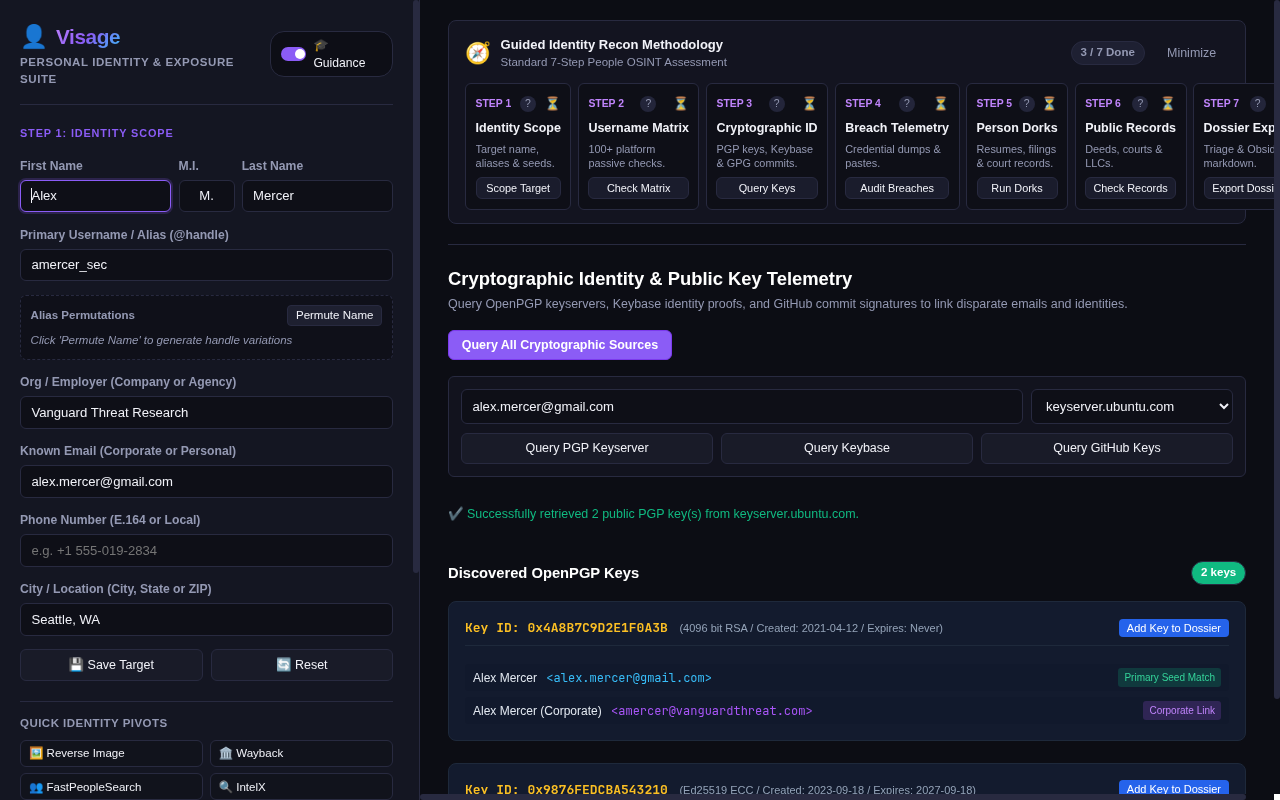
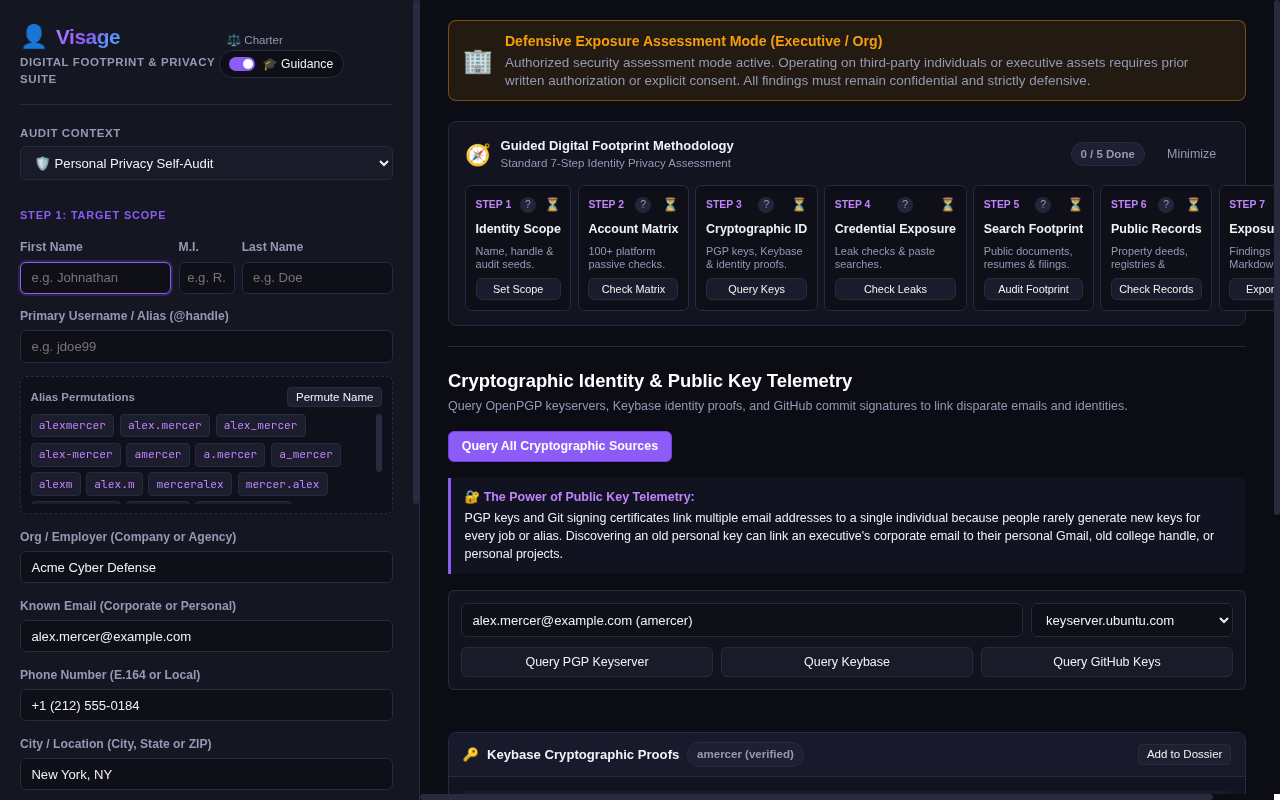
docs: update README with v1.1.0 screenshots, dual-mode audit methodology, and ethical safeguards

diff --git a/dashboard.js b/dashboard.js
@@ -16,6 +16,49 @@
 if (typeof browser === 'undefined') {
   var browser = globalThis.browser || globalThis.chrome;
 }
+if (!browser || !browser.storage || !browser.storage.local) {
+  const memStore = {};
+  browser = Object.assign(browser || {}, {
+    storage: {
+      local: {
+        get: async (keys) => {
+          const res = {};
+          const keyList = Array.isArray(keys) ? keys : (typeof keys === 'string' ? [keys] : Object.keys(keys || {}));
+          for (const k of keyList) {
+            try {
+              const val = localStorage.getItem('visage_' + k);
+              if (val !== null) res[k] = JSON.parse(val);
+              else if (k in memStore) res[k] = memStore[k];
+            } catch (e) {
+              if (k in memStore) res[k] = memStore[k];
+            }
+          }
+          return res;
+        },
+        set: async (items) => {
+          for (const [k, v] of Object.entries(items || {})) {
+            memStore[k] = v;
+            try { localStorage.setItem('visage_' + k, JSON.stringify(v)); } catch (e) {}
+          }
+        },
+        clear: async () => {
+          for (const k of Object.keys(memStore)) delete memStore[k];
+          try {
+            const toRemove = [];
+            for (let i = 0; i < localStorage.length; i++) {
+              const key = localStorage.key(i);
+              if (key && key.startsWith('visage_')) toRemove.push(key);
+            }
+            toRemove.forEach(k => localStorage.removeItem(k));
+          } catch (e) {}
+        }
+      }
+    },
+    tabs: browser && browser.tabs ? browser.tabs : {
+      create: ({ url }) => { window.open(url, '_blank'); }
+    }
+  });
+}
 
 // Helper: Split full name into first, middle, and last components
 function splitFullName(fullName) {

diff --git a/README.md b/README.md
@@ -14,48 +14,77 @@
 
 ## 📸 Workstation Screenshots
 
-### 1. 7-Step Digital Footprint Audit & 100+ Platform Username Matrix
+### 1. Personal Privacy Self-Audit & 100+ Platform Username Matrix
 ![Visage Username & Alias Matrix](screenshots/visage_matrix.png)
 
-### 2. Cryptographic Identity & Public Key Telemetry (OpenPGP & Keybase)
+### 2. Clean Up & Opt-Out Desk (Remediation Action Plan & Direct Delisting)
+![Visage Clean Up & Opt-Out Desk](screenshots/visage_opt_out_desk.png)
+
+### 3. Defensive Assessment Mode & 50-State Sovereign Records Desk
+![Visage Public Records Desk](screenshots/visage_records.png)
+
+### 4. Cryptographic Identity & Public Key Telemetry (OpenPGP & Keybase)
 ![Visage Cryptographic Identity](screenshots/visage_crypto.png)
 
-### 3. 50-State Public Records & Jurisdictional Directory Desk
-![Visage Public Records Desk](screenshots/visage_records.png)
+### 5. Ethical Operations Charter & Rules of Engagement
+![Visage Ethical Charter](screenshots/visage_ethical_charter.png)
 
 ---
 
-## 🧭 The 7-Step Identity Privacy Audit Methodology
+## 🧭 Dual-Mode Identity Audit Methodology
 
-Visage guides analysts through an end-to-end, reproducible identity audit workflow:
+Visage provides two tailored operating contexts depending on your mission and authorization:
+
+### 🛡 1. Personal Privacy Self-Audit Mode (Default)
+Streamlined 5-step workflow built specifically for individuals and privacy advocates auditing their own digital footprint, identifying exposed personal data, and executing direct takedowns:
 
 ```mermaid
 flowchart LR
-    S1["1. Scope Profile"] --> S2["2. Username Matrix"]
-    S2 --> S3["3. Cryptographic ID"]
-    S3 --> S4["4. Credential Leaks"]
-    S4 --> S5["5. Search Footprint"]
-    S5 --> S6["6. Public Records"]
-    S6 --> S7["7. Exposure Report"]
+    S1["1. Profile Scope"] --> S2["2. Account Matrix"]
+    S2 --> S3["3. Breach Check"]
+    S3 --> S4["4. Public Dorks"]
+    S4 --> S5["5. Clean Up Desk"]
 ```
 
-1. **Scope Identity Profile**: Dissect full legal name, known aliases, primary email, phone number, location, and employer. Visage automatically generates handle permutation variations (e.g. `first.last`, `flast`, `firstl`, `lastf`) and dynamically resolves jurisdiction down to county/parish and state.
-2. **Username & Alias Matrix**: Passively probe public presence across 100+ platforms (Developer, Social, Messaging, Media, and Gaming) with zero authentication required.
-3. **Cryptographic Signatures & Public Key Telemetry**: Query Ubuntu OpenPGP keyservers (`keyserver.ubuntu.com`, `pgp.surf.nl`), Keybase verified identity proofs, and GitHub commit signatures to link disparate personal and corporate emails.
-4. **Credential Exposure & Leak Telemetry**: Passive audit of public breach exposure, infostealer malware telemetry (Hudson Rock Cavalier), leaked paste shortlinks, and private in-browser **k-Anonymity** password hash range checking.
-5. **Public Footprint Query Compiler**: Curated search queries for resumes/CVs, court records, corporate filings, conference presentations, and exposed documents with multi-engine support (Google with strict verbatim `&tbs=li:1`, Bing, DuckDuckGo, Brave, Yandex).
-6. **Public Records & Jurisdictional Directory**: Multi-tier ground-truth sovereign records across all 50 US states, DC, and PR. Dynamic resolution of County/Parish property deeds, tax assessment GIS portals, board of elections voter rolls, official state voter status lookups, unified court case registers, state corporate/LLC filings, and professional licensing boards.
-7. **Exposure Report Triage & Export**: Classify findings by risk severity, triage status, and remediation notes. Export directly to Markdown reports (with Dataview metadata and callouts), CSV, or JSON. Restore previous audits with 1-click import of any Visage JSON or Markdown report.
+1. **Profile Scope**: Input your name, aliases, email, phone, and home jurisdiction. Generates handle permutations and maps jurisdiction down to county and state.
+2. **Account Matrix**: Check public profile presence across 100+ platforms (Developer, Social, Messaging, Media, and Gaming) with zero authentication.
+3. **Breach Check**: Passive credential compromise evaluation and in-browser **k-Anonymity** password hash check.
+4. **Public Dorks**: Search engine queries to identify exposed contact information, personal documents, and index leaks.
+5. **Clean Up & Opt-Out Desk**: Actionable remediation hub featuring official search engine PII removal forms (Google & Bing), direct opt-out portals for major data brokers (Whitepages, BeenVerified, Radaris, Spokeo, FastPeopleSearch, LexisNexis), and 1-click local audit data purge.
 
 ---
 
-## 🔒 Architecture, OPSEC & Rate-Limit Shields
+### ⚖ 2. Defensive Exposure Assessment Mode (Authorized Blue-Team)
+Comprehensive 7-step workflow with an amber warning banner for authorized security analysts and corporate blue teams assessing personnel threat surfaces with explicit organizational consent:
+
+```mermaid
+flowchart LR
+    D1["1. Scope Profile"] --> D2["2. Username Matrix"]
+    D2 --> D3["3. Cryptographic ID"]
+    D3 --> D4["4. Credential Leaks"]
+    D4 --> D5["5. Search Footprint"]
+    D5 --> D6["6. Sovereign Records"]
+    D6 --> D7["7. Exposure Report"]
+```
+
+1. **Scope Identity Profile**: Dissect full legal name, known aliases, primary email, phone number, location, and employer. Generates permutations and resolves local jurisdiction.
+2. **Username & Alias Matrix**: Passively evaluate handle presence across 100+ developer, social, and messaging ecosystems.
+3. **Cryptographic Signatures & Public Key Telemetry**: Query Ubuntu OpenPGP keyservers (`keyserver.ubuntu.com`, `pgp.surf.nl`), Keybase verified proofs, and GitHub commit signatures to link corporate and personal identities.
+4. **Credential Exposure & Leak Telemetry**: Passive audit of public breach exposure, infostealer malware telemetry, leaked paste shortlinks, and private k-Anonymity password checks.
+5. **Public Footprint Query Compiler**: Curated search queries for resumes, court records, corporate filings, conference presentations, and exposed documents across Google (verbatim), Bing, DuckDuckGo, Brave, and Yandex.
+6. **Sovereign Public Records & Jurisdictional Directory**: Official ground-truth sovereign portals across all 50 US states, DC, and PR: County/Parish property deeds (GIS), state voter registration status, unified state court registers, corporate/LLC entity filings, and professional licensing boards.
+7. **Exposure Report Triage & Export**: Classify findings by severity, triage status, and remediation notes. Export to Markdown dossiers (with Dataview metadata), CSV, or JSON.
+
+---
+
+## 🔒 Architecture, OPSEC & Ethical Guardrails
 
 - **100% Client-Side**: Visage runs entirely within your browser. No target names, emails, queries, or dossier notes are ever transmitted to external servers.
-- **Zero Remote Scripts**: Built strictly with vanilla HTML5, CSS, and modern JavaScript. Contains no CDN dependencies, no `eval()`, and no remote code in compliance with Mozilla AMO and Chrome Web Store policies.
+- **Zero Remote Scripts**: Built strictly with vanilla HTML5, CSS, and modern JavaScript. Contains no CDN dependencies, no `eval()`, and no remote code in compliance with Mozilla AMO, Chrome Web Store, and Edge Add-ons policies.
+- **Ethical Charter & Affirmation**: Enforces a first-run Rules of Engagement charter and explicit consent modal before accessing defensive multi-source discovery.
 - **Private k-Anonymity Range Queries**: Passwords tested in the breach panel are hashed locally via Web Cryptography `crypto.subtle.digest("SHA-1")` — only a 5-character prefix is queried over the wire.
-- **Rate-Limit & Anti-Bot Shields**: Includes client-side debouncing, Nominatim 1.1s interval guards, staggered tab opening delays (350–450ms) to prevent search engine CAPTCHAs, and transparent diagnostic banners if public unauthenticated API limits are reached (e.g., GitHub 60 req/hr).
-- **Local Storage Isolation**: All audit logs, custom profiles, and findings remain strictly stored on your device via `browser.storage.local`.
+- **Rate-Limit & Anti-Bot Shields**: Includes client-side debouncing, Nominatim 1.1s interval guards, staggered tab opening delays (350–450ms) to prevent search engine CAPTCHAs, and transparent diagnostic banners.
+- **Local Storage Isolation & Instant Purge**: All audit logs and profiles remain on your device via `browser.storage.local`, with an instant 1-click purge button in the Clean Up Desk.
 - **Privacy Policy**: Read our comprehensive zero-telemetry disclosure in [PRIVACY.md](PRIVACY.md).
 
 ---
@@ -75,8 +104,8 @@ npm run build
 ```
 
 The build process produces:
-- `dist/visage-firefox-v1.0.3.zip` (Ready for Mozilla AMO submission)
-- `dist/visage-chrome-v1.0.3.zip` (Ready for Chrome Web Store submission)
+- `dist/visage-firefox-v1.1.0.zip` (Ready for Mozilla AMO submission)
+- `dist/visage-chrome-v1.1.0.zip` (Ready for Chrome Web Store & Edge Add-ons submission)
 - `dist/firefox/` (Unpacked Firefox add-on directory)
 - `dist/chrome/` (Unpacked Chrome extension directory)
 
@@ -103,3 +132,4 @@ Visage is built to work seamlessly with [Vantage](https://github.com/mrnickpeer/
 ## 📄 License
 
 MIT License
+
